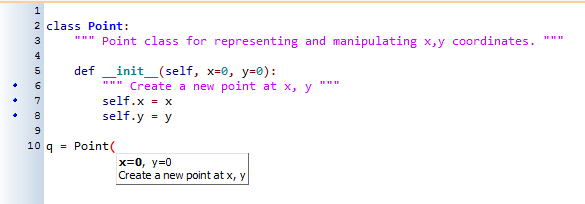
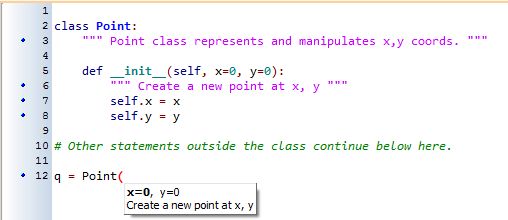
Little tweaks to emphasize where the class ends

Changed region(s): [[0.0, 0.0, 1.0, 1.0], [0.6496, 0.3529, 0.6791, 0.3824]]

diff --git a/source/classes_and_objects_I.rst b/source/classes_and_objects_I.rst
@@ -98,10 +98,12 @@ so our first class definition looks like this:
             self.y = 0          
 
 Class definitions can appear anywhere in a program, but they are usually near
-the beginning (after the ``import`` statements). The syntax rules for a class
+the beginning (after the ``import`` statements). Some programmers and languages
+prefer to put every class in a module of its own --- we won't do that here.  
+The syntax rules for a class
 definition are the same as for other compound statements. There is a header
 which begins with the keyword, ``class``, followed by the name of the class,
-and ending with a colon.
+and ending with a colon.  You'll know where the class ends by looking at the indentation.
 
 If the first line after the class header is a string, it becomes
 the docstring of the class, and will be recognized by various tools.  (This
@@ -146,7 +148,7 @@ A function like ``Turtle`` or ``Point`` that creates a new object instance
 is called a **constructor**, and every class automatically provides a
 constructor function which is named the same as the class.
 
-It may be helpful to think of a class as a factory for making objects.  
+It may be helpful to think of a class as a *factory* for making objects.  
 The class itself isn't an instance of a point, but it contains the machinery 
 to make point instances.   Every time you call the constructor, you're asking
 the factory to make you a new object.  As the object comes off the 
@@ -226,6 +228,7 @@ We can make our class constructor more general by putting extra parameters into
 the ``__init__`` method, as shown in this example:
 
 .. sourcecode:: python
+    :linenos:
     
     class Point:
         """ Point class represents and manipulates x,y coords. """
@@ -234,6 +237,8 @@ the ``__init__`` method, as shown in this example:
             """ Create a new point at x, y """
             self.x = x
             self.y = y 
+            
+    # Other statements outside the class continue below here.
 
 The ``x`` and ``y`` parameters here are both optional.  If the caller does not 
 supply arguments, they'll get the default values of 0.  Here is our improved class 
